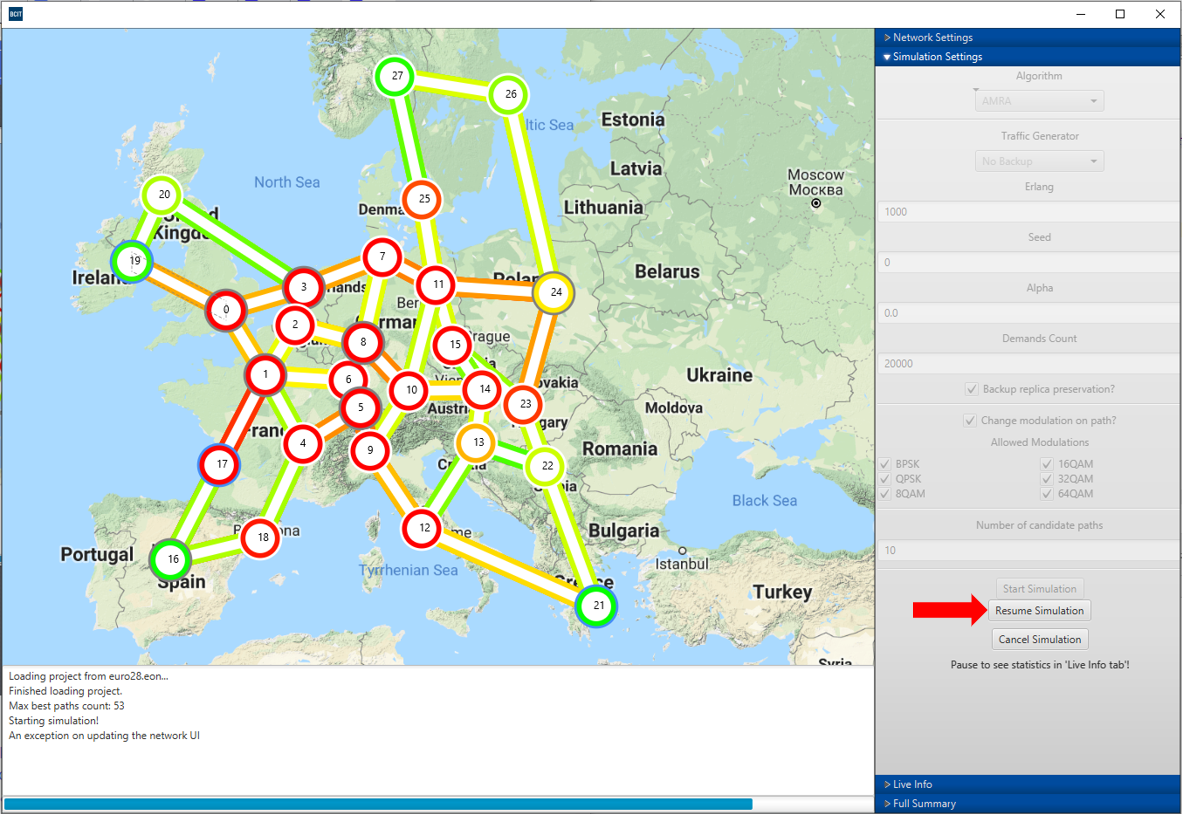
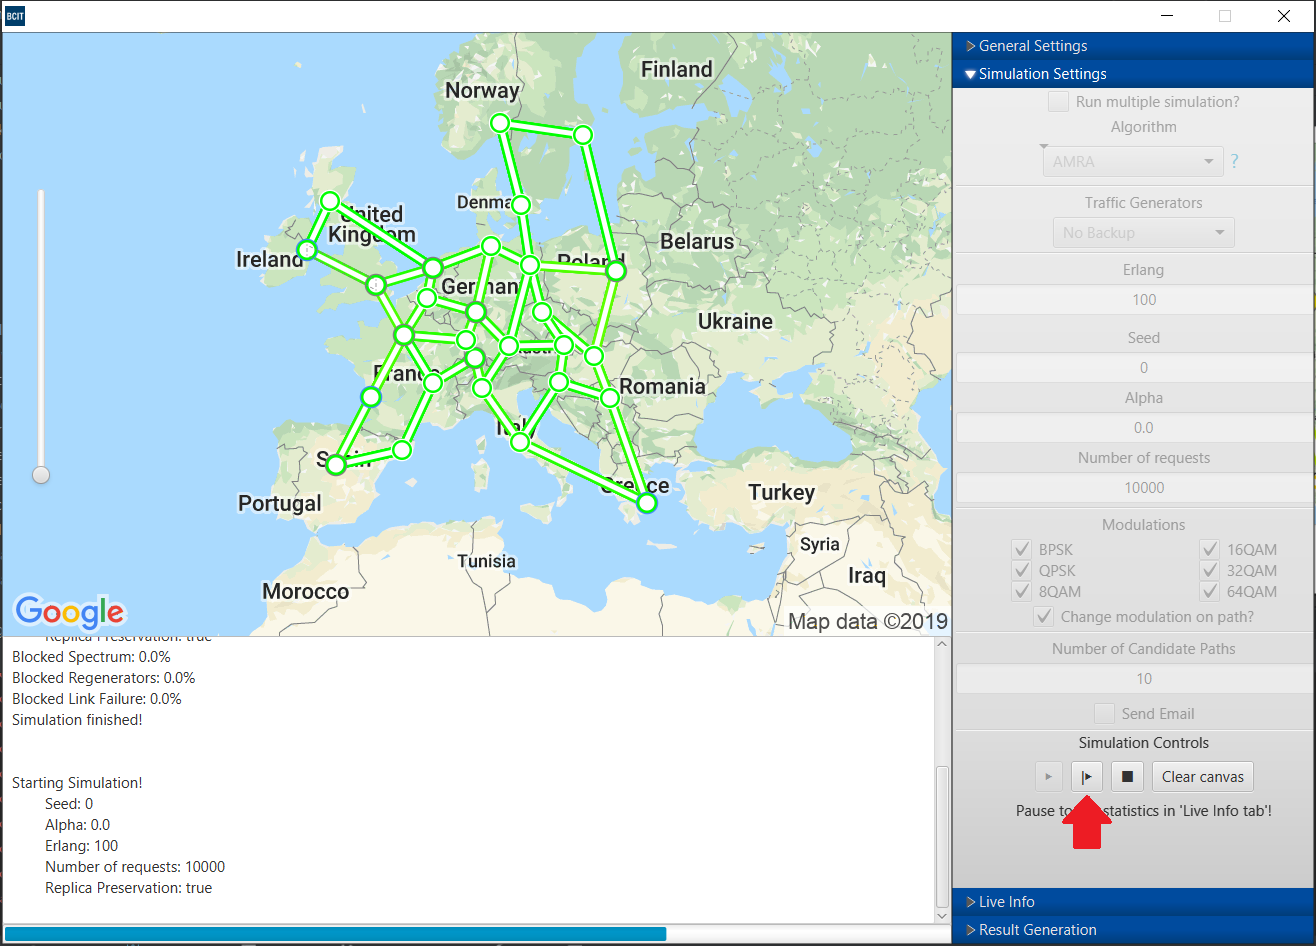
Updating Screenshots
Updated Screenshot 17, 24 and readme

diff --git a/README.md b/README.md
@@ -202,9 +202,29 @@ A link would display the the length of the link, the node it originates from/the
 
 If neither node or link is clicked on it will display current summary statistics of blocking percentages for regenerators, link and blocked spectrum.
 
-## 5) Full Summary Pane
+## 5) Result Generation Pane
+![image alt text](./docs/image_24.png)
 
-This section is currently under development.  The idea for this area is to hold aggregated graphical information after multiple simulations are run.
+A: Title of the PDF.
+
+B: The X-Axis Variable
+
+C: The Y-Axis Variable
+
+D: The algorithms and variables to display on graph
+
+E: File path to the folder where the generated pdf will be saved. 
+
+F: Select if you want to open folder after download.
+
+G: Click to preview the PDF.
+
+H: Click the download button to download the PDF to the specified file path.
+
+I: Click to reset to the default parameters.
+
+J: Click to view the generated results data.
+
 
 ## 6) Network topology with nodes and links
 
@@ -296,7 +316,7 @@ Figure D: Console showing fully loaded project with calculated paths
 
 7. Type **Number of candidate paths.**
 
-2. Press **Start Simulation**.
+2. Press the **PLAY** button.
 
 ![image alt text](./docs/image_8.png)
 
@@ -332,9 +352,21 @@ Figure B: Waiting for the simulation when it’s finished, simulation results sh
 
 ![image alt text](./docs/image_12.png)
 
-Figure C: Unpausing the simulation
+Figure C: Restarting the simulation
 
-# VII.  To see live simulation statistics
+# VIII.  To generate a PDF
+
+1. In **Simulation Settings** run multiple simulations.
+
+2. Fill out the form with your desired **PDF Title**, **X-Axis Title** and **Y-Axis Title**
+
+3. Select the algorithms and variables to display on your graph.
+
+4. Choose the folder where you want to download your PDF.
+
+5. Click **Download PDF** to download it into the specified folder.
+
+# VIII.  To see live simulation statistics
 
 ## 1.0)  Pause Live Simulation
 
@@ -380,13 +412,14 @@ Figure D: Live Info panel populated with the current link information
 
 1. Click **Simulation Settings** while paused
 
-2. Click **Resume Simulation**
+2. Click **Resume** button
 
 ![image alt text](./docs/image_17.png)
 
-Figure E: Simulation Settings contains the Resume Simulation button
+Figure E: Simulation Settings contains the Resume button
 
-# VIII.  Frequently Asked Questions
+
+# IX.  Frequently Asked Questions
 
 ## 1)  Why do I get an exception on updating the network UI?
 
